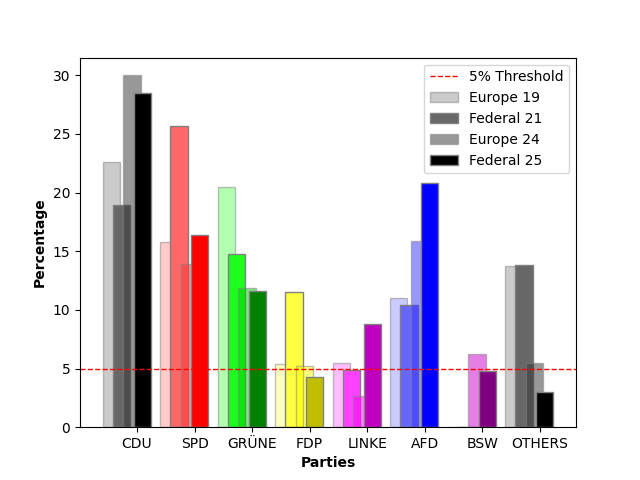
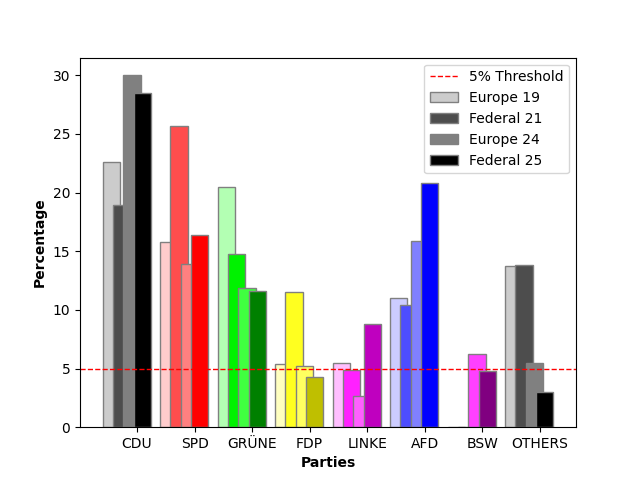
remove opacity changes, for a clearer result

diff --git a/ElectionResults.py b/ElectionResults.py
@@ -32,16 +32,16 @@ parties = ["CDU", "SPD", "GRÜNE", "FDP", "LINKE", "AFD", "BSW", "OTHERS"]
 colors = ["black", "r", "g", "y", "m", "b", "purple", "k"]
 
 europe19 = [22.6, 15.8, 20.5, 5.4, 5.5, 11.0, 0, 13.7]
-opacity_e19 = 0.5
-lighten_e19 = 0.6
+opacity_e19 = 1#0.5
+lighten_e19 = 0.2#0.6
 
 general21 = [18.9, 25.7, 14.8, 11.5, 4.9, 10.4, 0, 13.8]
-opacity_g21 = 0.99
-lighten_g21 = 0.7
+opacity_g21 = 1#0.99
+lighten_g21 = 0.7#0.7
 
 europe24 = [30.0, 13.9, 11.9, 5.2, 2.7, 15.9, 6.2, 5.5]
-opacity_e24 = 0.5
-lighten_e24 = 0.8
+opacity_e24 = 1#0.5
+lighten_e24 = 0.5#0.8
 
 general25 = [28.5, 16.4, 11.6, 4.3, 8.8, 20.8, 4.8, 3.0]
 opacity_g25 = 1
